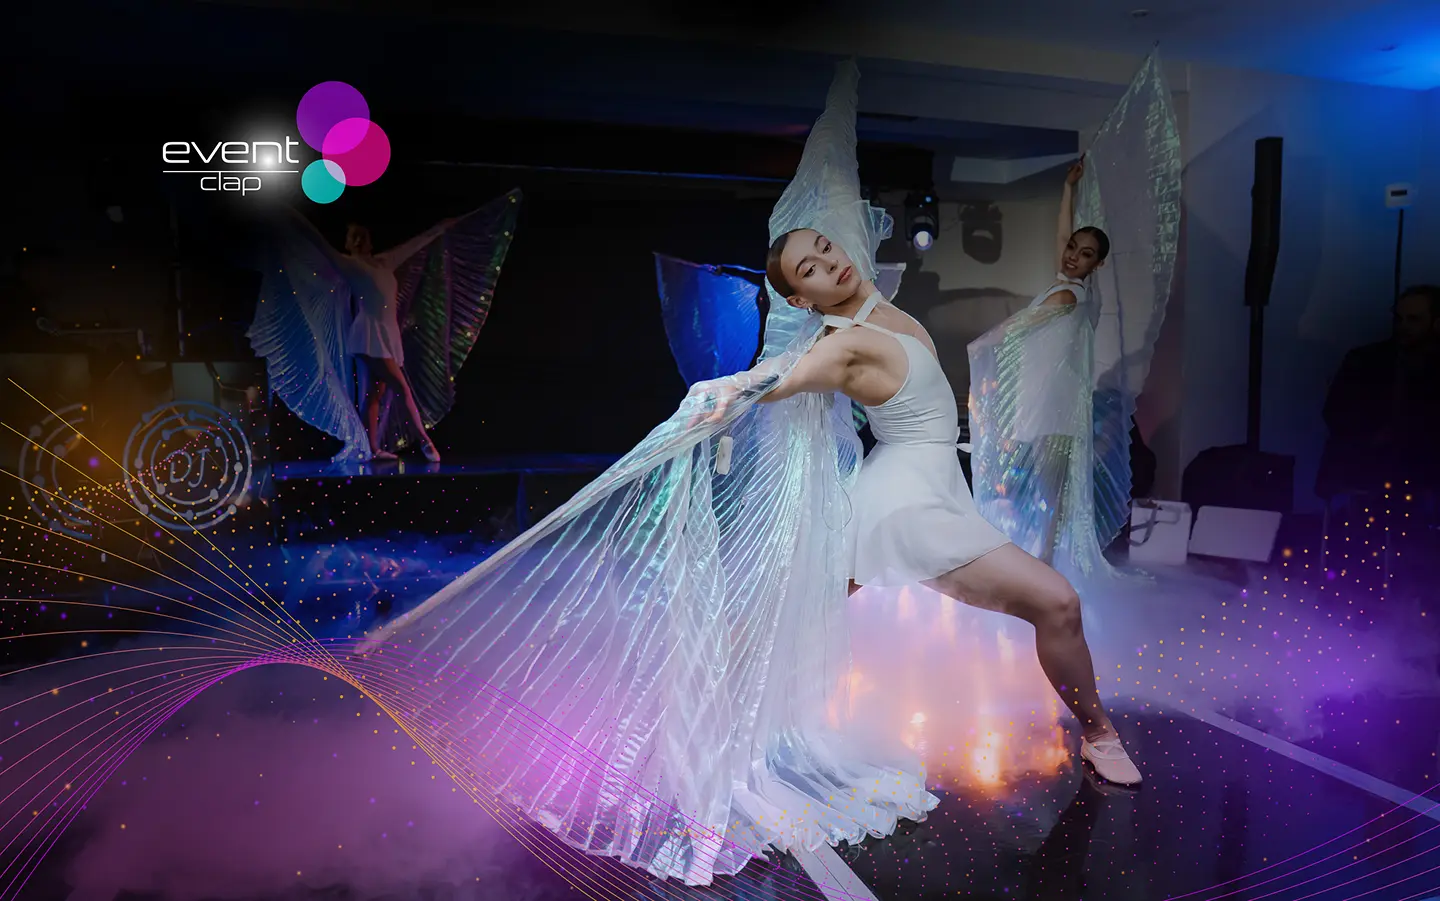
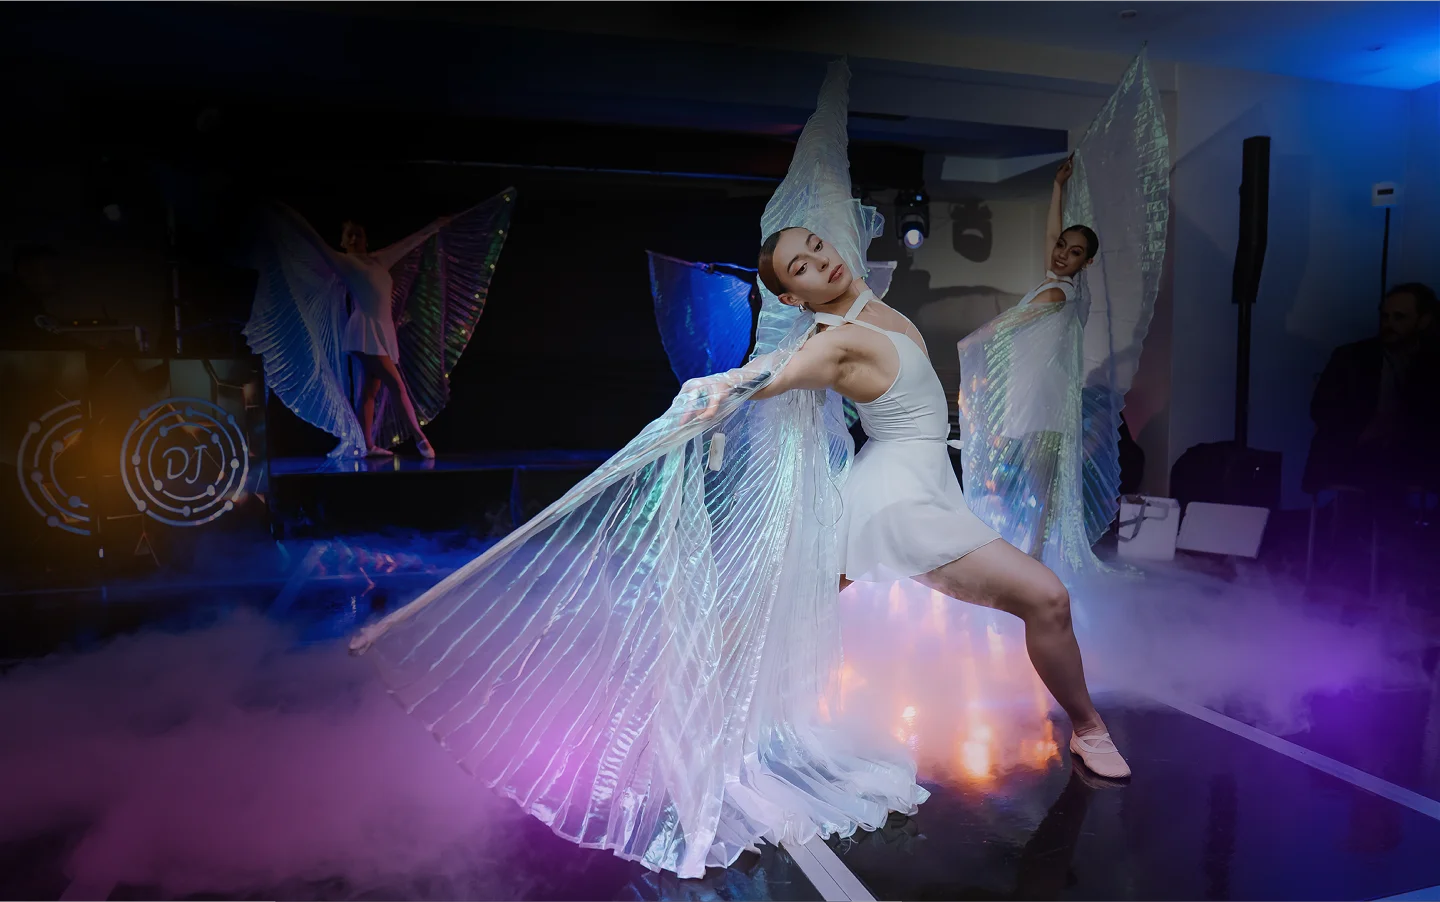
update home components

diff --git a/src/components/Contact.tsx b/src/components/Contact.tsx
@@ -12,6 +12,7 @@ export default function ContactSection() {
             style={{
                 backgroundColor: "#FFF",
                 width: "100%",
+                paddingBottom:"5rem"
             }}
         >
             <img className="decoration_1_contact_section absolute top-[10%] left-0" src={circle_3} alt="Decoración Web Site Event Clap" />
@@ -24,26 +25,6 @@ export default function ContactSection() {
                 justifyContent: "center",
                 alignItems: "center"
             }}>
-                <div
-                    className="info_contact_section"
-                    style={{
-                        width: "38.5%",
-                        display: "flex",
-                        flexDirection: "column",
-                        alignItems: "flex-start",
-                        justifyContent: "space-evenly",
-                        gap: "30px",
-                    }}
-                >
-                    <p className="text-[#720742] text-[22px] bg-[#EDF0F7] py-1 px-4 rounded-md">
-                        Contacto
-                    </p>
-                    <h2 className="title_info_contact_section font-normal text-[#390447] text-left">
-                        <span className="text-[113px] leading-[90px]">Quiero</span><br />
-                        <span className="font-bold text-[#390447] text-[72px]">mi evento</span><br />
-                        <img src={con_alma} alt="con alma" />
-                    </h2>
-                </div>
                 <div
                     style={{
                         width: "38.5%",
@@ -111,7 +92,7 @@ export default function ContactSection() {
                                 display: "flex",
                                 justifyContent: "center",
                                 alignItems: "center",
-                                padding: "8px 40px",
+                                padding: "2px 50px",
                                 marginTop: "15px",
                                 borderRadius: "25px",
                                 background: "linear-gradient(90deg, #700893 36%, #720742 100%)"
@@ -121,45 +102,55 @@ export default function ContactSection() {
                         </button>
                     </form>
                 </div>
+                <div
+                    className="info_contact_section"
+                    style={{
+                        width: "38.5%",
+                        display: "flex",
+                        flexDirection: "column",
+                        alignItems: "flex-end",
+                        justifyContent: "space-evenly",
+                        gap: "10px",
+                    }}
+                >
+                    <h4 className="w-[100%] subtitle_map_container_2_contact_section text-[35px] font-light italic text-white bg-[#886891] text-center rounded-md py-2">
+                        <img className="inline mr-2" src={icon_address} alt="Dirección de Event Clap" /> Dónde estamos?
+                    </h4>
+                    <div className="w-[100%] min-h-[350px] bg-[#EDF0F7] rounded-lg"></div>
+                </div>
             </div>
             <div className="container_2_contact_section" style={{
                 width: "100%",
-                minHeight: "500px",
                 boxSizing: "border-box",
                 display: "flex",
                 justifyContent: "center",
                 alignItems: "center",
                 gap: "20px",
-                flexDirection: "row",
+                flexDirection: "column",
+
             }}>
-                <div className="info_container_2_contact_section flex flex-col w-[38.7%]">
+                <div className="info_container_2_contact_section flex justify-center items-center gap-[20px] w-[100%]">
                     <h3 className="second_subtitle_contact_section uppercase text-[45px] text-[#390447] font-bold">
                         Tu evento merece
                     </h3>
-                    <img src={ser_inolvidable} alt="para sentirse" className="text_complemet_contact_section w-[65%]" />
-                    <button
+                    <img src={ser_inolvidable} alt="para sentirse" className="text_complemet_contact_section w-[35%]" />
+                </div>
+                <button
                         style={{
                             display: "flex",
                             justifyContent: "center",
                             alignItems: "center",
                             padding: "8px 30px",
                             marginTop: "15px",
-                            border: "1px solid #D6769A",
+                            border: "1px solid #AD0569",
                             borderRadius: "25px",
                             boxShadow: "2px 2px 6px #0008",
                             height: "40px",
-                            width: "80%"
+                            width: "40%"
                         }}
-                        className="cta_info_contact_section cursor-pointer bg-[#340447] transition duration-300 ease-in-out text-white font-bold hover:bg-[#fff] hover:text-[#AD0569]">
-
-                    </button>
-                </div>
-                <div className="map_container_2_contact_section w-[38.7%] min-h-[340px] ">
-                    <h4 className="subtitle_map_container_2_contact_section text-[35px] font-light italic text-white bg-[#886891] text-center rounded-md py-2">
-                        <img className="inline mr-2" src={icon_address} alt="Dirección de Event Clap" /> Dónde estamos?
-                    </h4>
-                    <div className="w-[100%] min-h-[300px] bg-[#EDF0F7] mt-2 rounded-lg"></div>
-                </div>
+                        className="cta_info_contact_section cursor-pointer bg-[#AD0569] transition duration-300 ease-in-out text-white font-bold hover:bg-[#fff] hover:text-[#AD0569]">
+                            Comencemos a crear magia
+                </button>
             </div>
             <img className="decoration_2_contact_section absolute top-[10%] right-0 rotate-y-[180deg] -rotate-x-[180deg]" src={circle_3} alt="Decoración Web Site Event Clap" />
         </section>

diff --git a/src/containers/home/MarketingSection.tsx b/src/containers/home/MarketingSection.tsx
@@ -2,6 +2,10 @@ import circle_1 from "../../assets/circle_1.webp";
 import circle_4 from "../../assets/circle_4.webp";
 import img_marketing from "../../assets/img_mark_emc_section.webp";
 import para_sentirse from "../../assets/para sentirse.webp"
+import icon1 from "../../assets/icon-1.webp"
+import icon2 from "../../assets/icon-2.webp"
+import icon3 from "../../assets/icon-3.webp"
+import icon4 from "../../assets/icon-4.webp"
 
 export default function MarketingSectionHome() {
     return (
@@ -11,6 +15,7 @@ export default function MarketingSectionHome() {
             style={{
                 backgroundColor: "#FFF",
                 width: "100%",
+                paddingBottom:"5rem"
             }}
         >
             <img className="decoration_1_marketing_section_home absolute top-[10%] left-0 -rotate-y-[180deg]" src={circle_1} alt="Decoración Web Site Event Clap" />
@@ -70,34 +75,41 @@ export default function MarketingSectionHome() {
                 </div>
             </div>
             <div className="container_2_marketing_section_home" style={{
-                width:"100%",
+                width: "100%",
                 minHeight: "400px",
                 boxSizing: "border-box",
                 display: "flex",
                 justifyContent: "flex-start",
                 alignItems: "center",
-                gap:"20px",
-                flexDirection:"column",
+                gap: "30px",
+                flexDirection: "column",
             }}>
-                <h3 className="second_subtitle_marketing_section_home uppercase text-[45px] text-[#390447] font-bold">
-                    experiencias diseñadas
+                <h3 className="second_subtitle_marketing_section_home relative z-[10] uppercase text-[45px] text-white font-semibold uppercase bg-[#390447] w-[55%] text-center rounded-[35px] shadow-lg">
+                    nuestra promesa
                 </h3>
-                <img src={para_sentirse} alt="para sentirse" className="text_complemet_marketing_section_home" />
+                <h4 className="relative border border-[#D6769A] -top-10 z-[1] min-w-[900px] w-[56%] rounded-lg flex items-center justify-center gap-3 text-[40px] font-normal text-[#390447] py-[10px]">
+                    Experiencias Diseñadas
+                    <img src={para_sentirse} alt="para sentirse" className="text_complemet_marketing_section_home" />
+                </h4>
                 <div className="box_cards_marketing_section_home flex justify-center gap-15 mt-5">
-                    <div className="card_1_marketing_section_home flex flex-col justify-center items-center py-5 px-12 bg-[#FAF5FC] rounded-md" style={{boxShadow:"2px 2px 8px #0003"}}>
+                    <div className="relative card_1_marketing_section_home flex flex-col justify-center items-center py-6 px-12 bg-[#FAF5FC] rounded-md" style={{ boxShadow: "2px 2px 8px #0003" }}>
+                        <img src={icon1} className="absolute top-[-35%]" alt="Decoración" />
                         <p className="text_card_marketing_section_home text-center text-[#390447] font-semibold">Tecnología 4.0</p>
                         <p className="text_card_marketing_section_home text-center text-[#390447] font-semibold">+</p>
                         <p className="text_card_marketing_section_home text-center text-[#390447] font-semibold">Narrativa Emocional</p>
                     </div>
-                    <div className="card_1_marketing_section_home flex flex-col justify-center items-center py-5 px-12 bg-[#FAF5FC] rounded-md" style={{boxShadow:"2px 2px 8px #0003"}}>
+                    <div className="relative card_1_marketing_section_home flex flex-col justify-center items-center py-6 px-12 bg-[#FAF5FC] rounded-md" style={{ boxShadow: "2px 2px 8px #0003" }}>
+                        <img src={icon2} className="absolute top-[-35%]" alt="Decoración" />
                         <p className="text_card_marketing_section_home text-center text-[#390447] font-semibold">Logística impecable</p>
                         <p className="text_card_marketing_section_home text-center text-[#390447] font-semibold">Acompañamiento Total</p>
                     </div>
-                    <div className="card_1_marketing_section_home flex flex-col justify-center items-center py-5 px-12 bg-[#FAF5FC] rounded-md" style={{boxShadow:"2px 2px 8px #0003"}}>
+                    <div className="relative card_1_marketing_section_home flex flex-col justify-center items-center py-6 px-12 bg-[#FAF5FC] rounded-md" style={{ boxShadow: "2px 2px 8px #0003" }}>
+                        <img src={icon3} className="absolute top-[-35%]" alt="Decoración" />
                         <p className="text_card_marketing_section_home text-center text-[#390447] font-semibold">Diseño Experiencial</p>
                         <p className="text_card_marketing_section_home text-center text-[#390447] font-semibold">Sensorial</p>
                     </div>
-                    <div className="card_1_marketing_section_home flex flex-col justify-center items-center py-5 px-12 bg-[#FAF5FC] rounded-md" style={{boxShadow:"2px 2px 8px #0003"}}>
+                    <div className="relative card_1_marketing_section_home flex flex-col justify-center items-center py-6 px-12 bg-[#FAF5FC] rounded-md" style={{ boxShadow: "2px 2px 8px #0003" }}>
+                        <img src={icon4} className="absolute top-[-35%]" alt="Decoración" />
                         <p className="text_card_marketing_section_home text-center text-[#390447] font-semibold">Logística impecable</p>
                         <p className="text_card_marketing_section_home text-center text-[#390447] font-semibold">Acompañamiento Total</p>
                     </div>

diff --git a/src/containers/home/HeroSection.tsx b/src/containers/home/HeroSection.tsx
@@ -7,13 +7,13 @@ export default function HeroSectionHome() {
             className="hero_section_home relative w-screen bg-gray-900"
             id="hero_section_home"
             style={{
-                height:"100vh",
-                maxHeight:"901px",
-                minHeight:"700px",
+                width:"100vw",
+                height:"auto",
+                minHeight:"100vh",
                 backgroundImage:`url(${image_banner})`,
                 backgroundRepeat:"no-repeat",
-                backgroundPosition:"top",
-                backgroundSize:"100% 100%",
+                backgroundPosition:"center",
+                backgroundSize:"cover",
                 display:"flex",
                 justifyContent:"center",
                 alignItems:"center",
@@ -30,7 +30,7 @@ export default function HeroSectionHome() {
                     alignItems:"start",
                 }}
             >
-                <h1 className="title_info_section_home w-90 text-[40px] font-bold leading-12 text-white">
+                <h1 className="title_info_section_home w-100 text-[40px] font-bold leading-12 text-white">
                     Donde la emoción se encuentra con la innovación.
                 </h1>
                 <h4 className="subtitle_info_section_home w-85 text-[26px] font-light leading-8 text-white">

diff --git a/src/components/Header.tsx b/src/components/Header.tsx
@@ -1,5 +1,6 @@
 import { useState } from "react"
 import { Link } from "react-router"
+import logo from "../assets/logo.webp"
 
 export default function Header(){
 
@@ -7,15 +8,21 @@ export default function Header(){
         <div className="header" style={{
             width:"100vw",
             position:"absolute",
-            top:"125px",
+            top:"80px",
             left:"0px",
-            display:"flex",
             padding:"0px 100px",
-            zIndex:1000
+            zIndex:1000,
+            display:"flex",
+            justifyContent:"space-between",
+            alignItems:"center",
+            paddingLeft:"11.5%",
+            paddingRight:"11.5%",
         }}>
             <div className="img_logo" style={{
                 flex:1
-            }}></div>
+            }}>
+                <img src={logo} className="w-[50%] max-w-[350px]" alt="Logo Event Clap"/>
+            </div>
             <nav className="menu_container" style={{
                 width:"100%",
                 flex:2

diff --git a/src/containers/home/LogoClients.tsx b/src/containers/home/LogoClients.tsx
@@ -1,0 +1,9 @@
+
+
+export default function LogoClients(){
+    return(
+        <section className="logo_clients">
+            
+        </section>
+    )
+}
